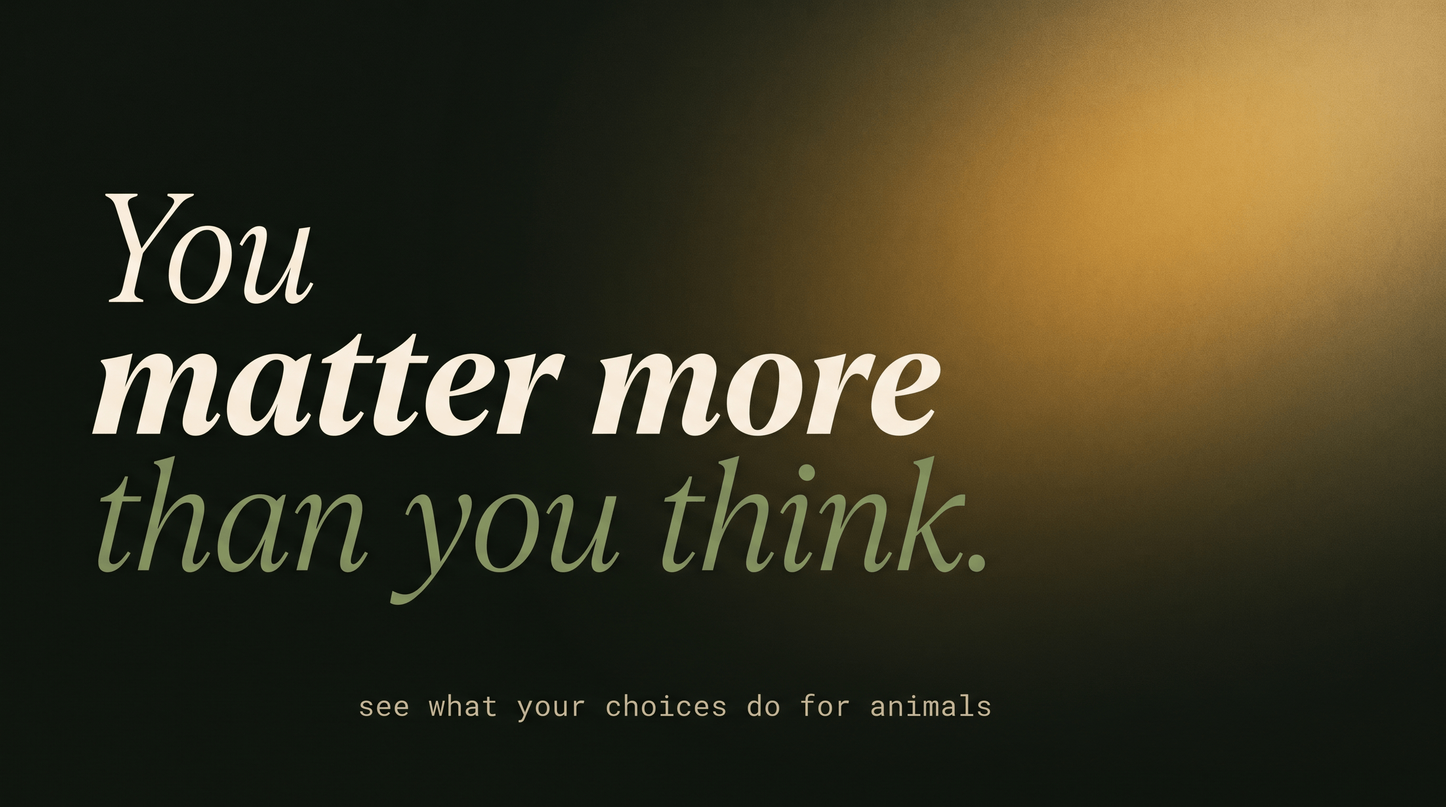
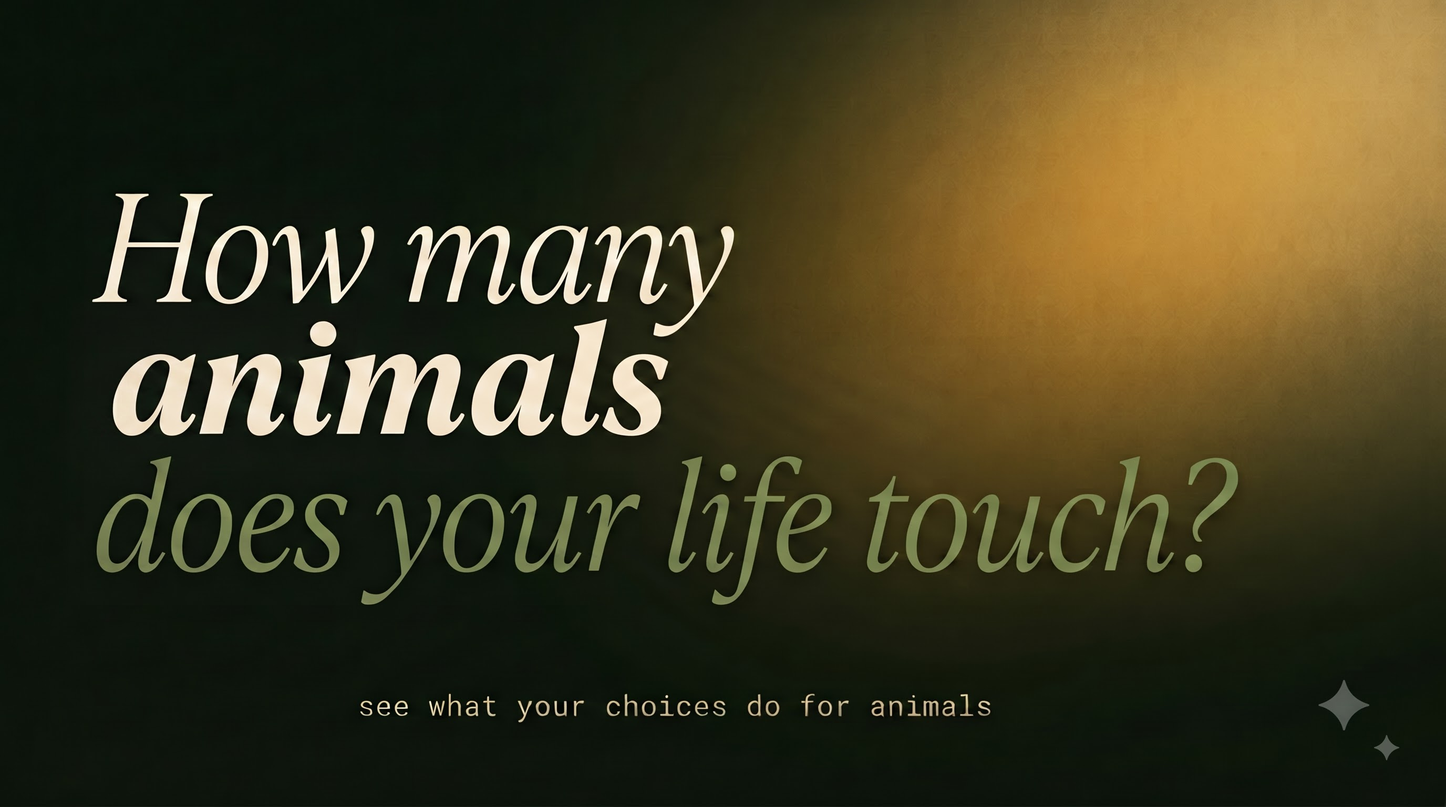
Real computations for wool, leather, donations

diff --git a/src/App.jsx b/src/App.jsx
@@ -139,6 +139,7 @@ function defaultSpeciesForRegion(region) {
   SPECIES.forEach((s) => {
     if (excluded.includes(s.key)) return;
     if (s.key === "eggs" || s.key === "dairy") { out.push(s.key); return; } // near-universal
+    if (s.nonFood) return;         // wool etc. come from the non-food step
     if (s.key === "honey") return; // niche, off by default
     const thr = THRESH[s.key] ?? 0.05;
     if ((base[s.key] || 0) >= thr) out.push(s.key);
@@ -199,6 +200,7 @@ function speciesWeights(w) {
     mutton: w.goat,
     eggs: 1,        // a laying hen is a hen — tied to the anchor
     dairy: w.cow,   // a dairy cow is a cow — follows the cow slider per spec
+    wool: w.goat,   // a wool sheep is a sheep — follows the goat/sheep slider
     honey: w.honey,
   };
 }
@@ -208,6 +210,35 @@ function speciesWeights(w) {
 // caged/intensive systems impose far longer durations of disabling & hurtful
 // pain than free-range. Genuinely uncertain; user-adjustable (1–100×).
 const DEFAULT_WELFARE_GAP = 4;
+
+// ---- NON-FOOD & DONATION CONSTANTS (sourced) -----------------------------
+// WOOL: sheep are shorn repeatedly and live on, so wool costs sheep-YEARS, not
+// lives — the same logic as eggs (hen-years) and dairy (cow-years).
+// IWTO puts average fleece at ~4.5 kg greasy wool per sheep per year; scouring
+// yields roughly 60% clean wool, so ~2.7 kg usable wool per sheep-year.
+// A typical wool garment (sweater/jumper) uses ~0.45 kg clean wool.
+const WOOL_KG_PER_SHEEP_YEAR = 2.7;
+const WOOL_KG_PER_GARMENT = 0.45;
+const SHEEP_YEARS_PER_GARMENT = WOOL_KG_PER_GARMENT / WOOL_KG_PER_SHEEP_YEAR; // ≈0.167
+
+// LEATHER: one bovine hide ≈ 4.5 m²; a typical leather item (averaging shoes,
+// belts and bags) ≈ 0.15 m². We attribute the PHYSICAL share of hide used — the
+// fraction of one animal's skin your purchase consumes. This is transparent and
+// checkable (area ÷ area). Note the alternative view: leather is a low-value
+// co-product of an animal killed for meat (hides are ~1–8% of cattle value), so
+// the *marginal* effect of one purchase on slaughter numbers is far smaller than
+// the physical share suggests. We report the physical share and disclose this.
+const HIDE_AREA_M2 = 4.5;
+const LEATHER_M2_PER_ITEM = 0.15;
+const CATTLE_PER_LEATHER_ITEM = LEATHER_M2_PER_ITEM / HIDE_AREA_M2; // ≈0.033
+
+// DONATIONS: corporate cage-free campaigns are the best-evidenced intervention.
+// Published cost-effectiveness estimates vary ~50x: ACE ~11 hens/$, Sinergia ~53
+// hens/$, Šimčikas 12–160 hen-years/$, some recommended charities ~3 hens/$. The
+// Humane League's own model is more conservative (no multiplication by years
+// averted). We use 3 — at or below the lowest published central estimate.
+// These are WELFARE improvements (hens moved out of cages), not lives spared.
+const HEN_YEARS_PER_DOLLAR = 3;
 
 const SPECIES = [
   { key: "chicken", label: "Chicken", emoji: "🐔", animal: "hens",
@@ -226,6 +257,10 @@ const SPECIES = [
     livesText: "of dairy-cow life not demanded", welfareText: "of milking freed from confinement" },
   { key: "honey",   label: "Honey", emoji: "🍯", animal: "bee colonies",
     livesText: "not farmed for honey", welfareText: "managed more gently" },
+  // Non-food species: never shown in "What do you eat", only produced by
+  // non-food actions. Sheep are shorn and live on, so wool costs sheep-YEARS.
+  { key: "wool",    label: "Wool", emoji: "🐑", animal: "sheep-years", nonFood: true,
+    livesText: "of sheep life not demanded for wool", welfareText: "shorn in better conditions" },
 ];
 
 const NONFOOD = [
@@ -301,20 +336,26 @@ const ACTIONS = [
     relevant: (c) => c.species.some((s) => ["chicken","fish","pork","beef","mutton","eggs","dairy"].includes(s)),
     apply: (d) => { const f = d / 100; return { chicken: f, fish: f, pork: f, beef: f, mutton: f, eggs: f, dairy: f }; } },
 
-  { key: "leather", emoji: "🧥", title: "Skip new leather", blurb: "Choose non-animal materials this year",
-    dialLabel: "commitment", dialMax: 100, dialDefault: 100,
+  // --- Non-food actions: ABSOLUTE amounts, not fractions of a food baseline ---
+  { key: "leather", emoji: "🧥", title: "Skip new leather", blurb: "Choose non-animal materials instead",
+    absolute: true, dialLabel: "leather items / year", dialMax: 8, dialDefault: 2,
     relevant: (c) => c.nonfood.includes("leather"),
-    apply: () => ({ beef: 0.02 }) }, // PLACEHOLDER tiny coupling
+    // The physical share of one animal's hide your purchase uses. The marginal
+    // effect on slaughter is smaller still, since leather is a co-product —
+    // see the methodology page.
+    applyAbsolute: (d) => ({ beef: d * CATTLE_PER_LEATHER_ITEM }) },
 
   { key: "no_wool", emoji: "🧶", title: "Skip new wool", blurb: "Choose plant or synthetic fibres",
-    dialLabel: "commitment", dialMax: 100, dialDefault: 100,
+    absolute: true, dialLabel: "wool items / year", dialMax: 8, dialDefault: 2,
     relevant: (c) => c.nonfood.includes("wool"),
-    apply: () => ({}) }, // PLACEHOLDER — welfare-only, no life math yet
+    // Sheep are shorn repeatedly and live on — this is sheep-years, not lives.
+    applyAbsolute: (d) => ({ wool: d * SHEEP_YEARS_PER_GARMENT }) },
 
-  { key: "donate", emoji: "💛", title: "Support effective charities", blurb: "A small donation spares many animals per dollar",
-    dialLabel: "$ / month", dialMax: 50, dialDefault: 10,
+  { key: "donate", emoji: "💛", title: "Support effective charities", blurb: "Corporate campaigns reach far more animals per rupee/dollar than diet alone",
+    donation: true, dialLabel: "$ / month", dialMax: 50, dialDefault: 10,
     relevant: () => true, // always available, esp. for the already-plant-based
-    apply: (d) => ({ chicken: d * 0.4 }) }, // PLACEHOLDER cost-per-animal coupling
+    // Handled in its own lane — welfare improvement measured in hen-years.
+    applyDonation: (d) => d * 12 * HEN_YEARS_PER_DOLLAR },
 ];
 
 // The single lowest-friction suggested action for someone who picked nothing,
@@ -528,6 +569,12 @@ function computeImpact({ region, intensity, species, actions, dials, weights, we
   // animal being counted in both buckets (the 666-vs-95 double count).
   const livesFrac = {};
   const welfareFrac = {};
+  // Absolute additions (non-food items) don't scale off a food baseline — you
+  // can skip leather without eating beef — so they're accumulated separately
+  // in animal counts, then scaled by time/scale at the end.
+  const absLives = {};
+  // Donations live in their own lane entirely (see below).
+  let donationHenYears = 0;
 
   actions.forEach((aKey) => {
     const action = ACTIONS.find((a) => a.key === aKey);
@@ -535,6 +582,15 @@ function computeImpact({ region, intensity, species, actions, dials, weights, we
     const mealCap = meatMealsPerWeek(region, intensity);
     const effMax = action.mealBased ? Math.max(1, Math.min(action.dialMax, Math.round(mealCap))) : action.dialMax;
     const dial = Math.min(dials[aKey] ?? Math.min(action.dialDefault, effMax), effMax);
+
+    if (action.donation) { donationHenYears += action.applyDonation(dial); return; }
+    if (action.absolute) {
+      Object.entries(action.applyAbsolute(dial)).forEach(([sp, n]) => {
+        absLives[sp] = (absLives[sp] || 0) + n;
+      });
+      return;
+    }
+
     const reductions = action.apply(dial, effMax);
     Object.entries(reductions).forEach(([sp, frac]) => {
       const bucket = action.welfareOnly ? welfareFrac : livesFrac;
@@ -556,6 +612,13 @@ function computeImpact({ region, intensity, species, actions, dials, weights, we
     const wf = wfRaw * (1 - lf); // welfare applies only to the surviving share
     if (lf > 0) livesSaved[sp] = yr * lf;
     if (wf > 0) welfareImp[sp] = yr * wf;
+  });
+
+  // Fold in absolute (non-food) contributions. These bypass the food baseline
+  // entirely — you can skip leather without eating beef, or wool with no
+  // dietary link at all.
+  Object.entries(absLives).forEach(([sp, n]) => {
+    if (n > 0) livesSaved[sp] = (livesSaved[sp] || 0) + n;
   });
 
   const tf = TIMES.find((t) => t.key === time)?.factor ?? 1;
@@ -588,7 +651,14 @@ function computeImpact({ region, intensity, species, actions, dials, weights, we
   // (baked into weightedWelfare above). Moves live as the user drags any slider.
   const blended = weightedLives + weightedWelfare;
 
-  return { cards, weightedLives, rawLives, rawWelfare, weightedWelfare, blended, yearly };
+  // Donations sit in their OWN lane. Not a category distinction — cage-free eggs
+  // is also a welfare improvement and it does feed `blended`. The real reason is
+  // structural: every other number here measures what the user's own consumption
+  // asks of animals, whereas a donation buys change beyond their footprint. Hence
+  // scaled by time but not by people-scale, and reported separately.
+  const donationYears = donationHenYears * tf;
+
+  return { cards, weightedLives, rawLives, rawWelfare, weightedWelfare, blended, donationYears, yearly };
 }
 
 // Current "as-is" footprint: what the user's diet costs animals per the chosen
@@ -918,6 +988,22 @@ What's yours? → the-ripple.app`;
             across <strong>{scales.find(s => s.key === scale)?.label}</strong>
             {scale !== "you" && <span className="hypo"> (hypothetical)</span>}
           </p>
+          {result.donationYears > 0 && (
+            <div className="donation-lane">
+              <span className="dl-emoji">💛</span>
+              <div className="dl-body">
+                <p className="dl-num">
+                  + {fmt(result.donationYears)} <span className="dl-unit">hen-years improved</span>
+                </p>
+                <p className="dl-note">
+                  through your donation, over the same period. Kept separate because
+                  it isn't a change to your own footprint — it's money spent to shift
+                  the system beyond what you consume. Published estimates vary about
+                  fiftyfold; we use one at the conservative end.
+                </p>
+              </div>
+            </div>
+          )}
           {baseImpact > 0 && baseImpact < 8 && (time !== "year" || scale !== "you") && (
             <p className="amplify-note">
               A single year for one person is a small number — so we're showing a
@@ -1165,7 +1251,7 @@ What's yours? → the-ripple.app`;
 
         {step === 2 && (() => {
           const excluded = INTENSITY[intensity]?.excludes ?? [];
-          const shown = SPECIES.filter((s) => !excluded.includes(s.key));
+          const shown = SPECIES.filter((s) => !excluded.includes(s.key) && !s.nonFood);
           const isVeg = intensity === "veg_eggs" || intensity === "vegetarian" || intensity === "plant";
           return (
           <>
@@ -1375,6 +1461,18 @@ function Style() {
 .amplify-note{text-align:center;font-size:13px;line-height:1.55;color:rgba(244,239,228,.6);
   font-style:italic;max-width:440px;margin:-8px auto 18px}
 .hypo{color:var(--rose);font-style:italic;font-size:13px}
+
+/* donation lane — deliberately visually separate from the ripple total */
+.donation-lane{display:flex;gap:14px;align-items:flex-start;
+  background:rgba(217,164,65,.07);border:1px dashed rgba(217,164,65,.35);
+  border-radius:16px;padding:16px 18px;margin:0 auto 20px;max-width:520px;
+  animation:fadeUp .4s both}
+.dl-emoji{font-size:24px;flex-shrink:0;line-height:1.2}
+.dl-body{flex:1}
+.dl-num{font-family:'Fraunces',serif;font-weight:600;font-size:20px;color:var(--gold);
+  line-height:1.2;margin-bottom:6px}
+.dl-unit{font-family:'Fraunces',serif;font-style:italic;font-weight:400;font-size:16px;color:var(--paper)}
+.dl-note{font-size:12.5px;line-height:1.55;color:rgba(244,239,228,.62)}
 
 /* info icon + footprint panel */
 .result-head{display:flex;align-items:center;justify-content:center;gap:10px;position:relative}
